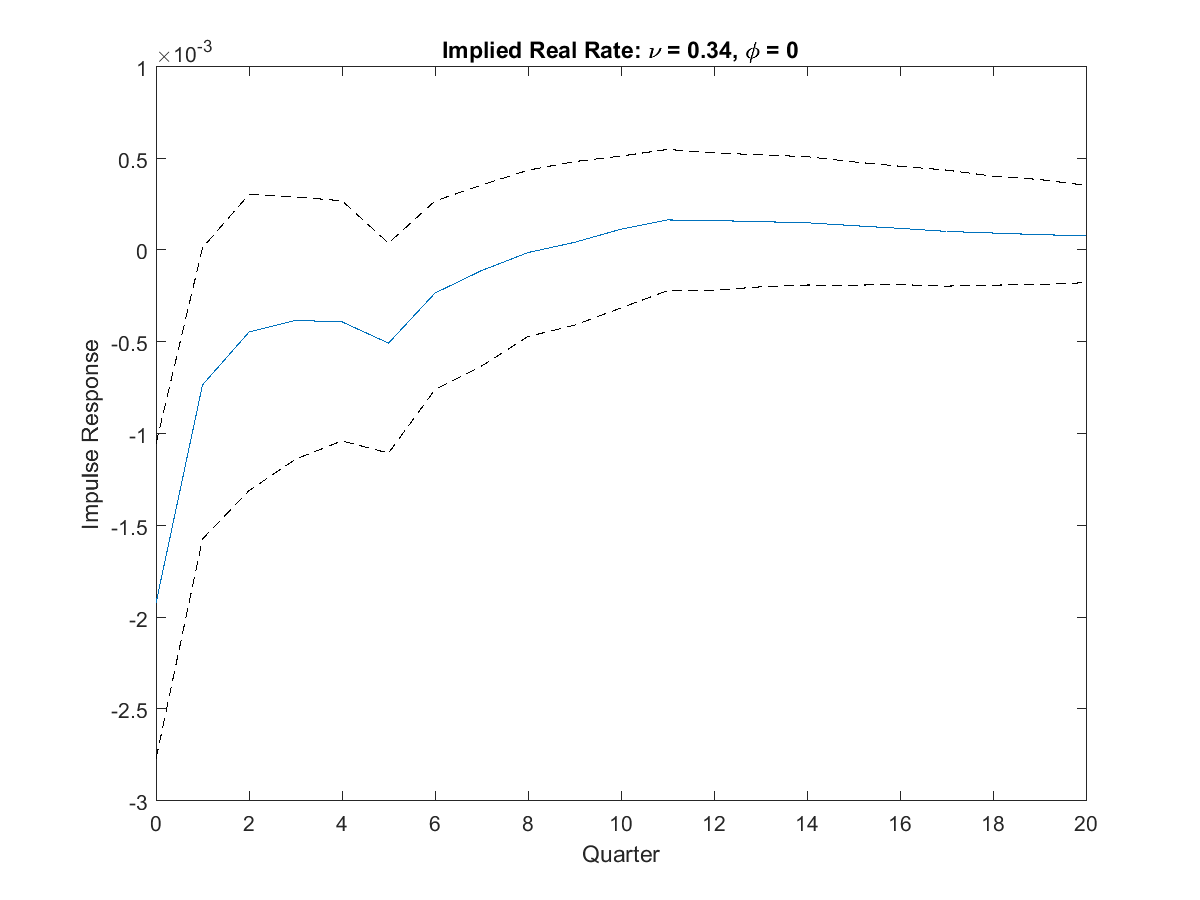
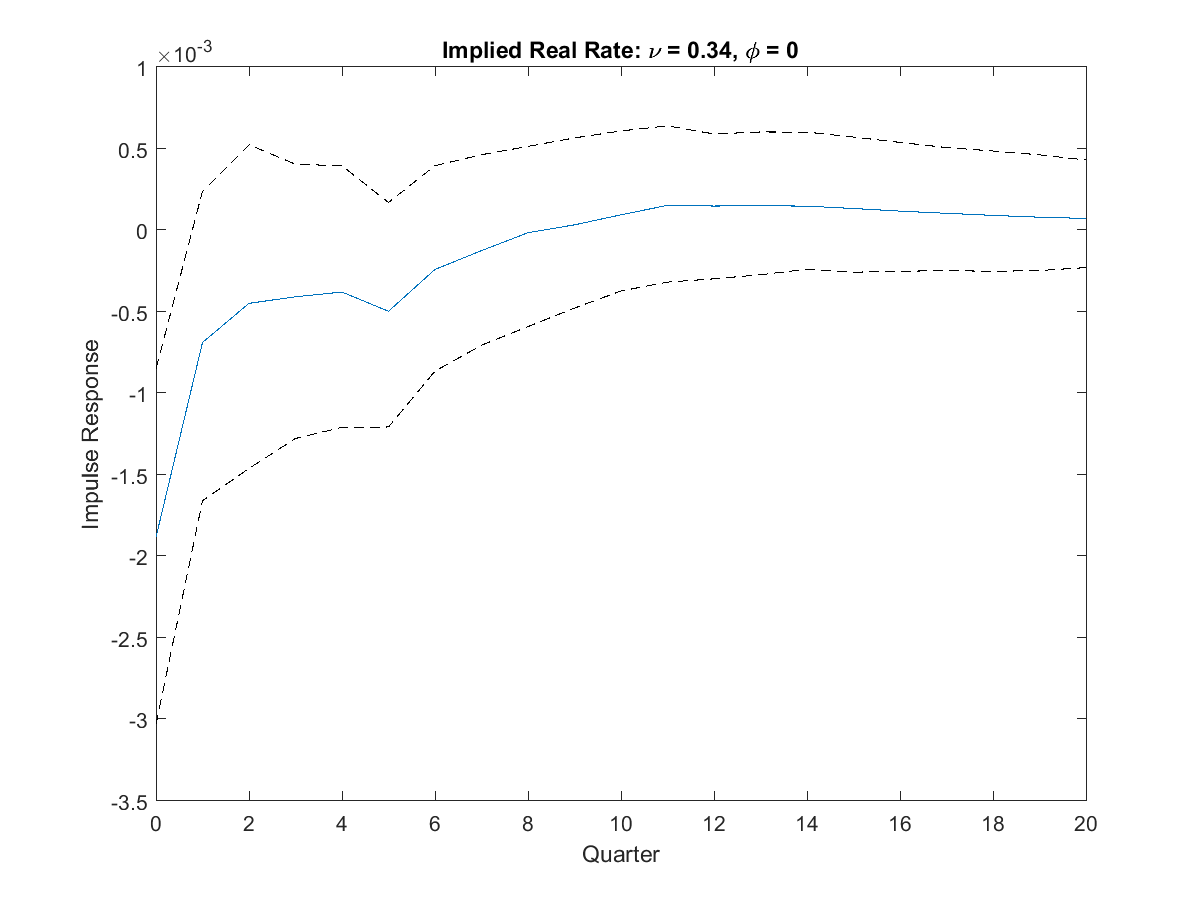
Change from 90% to 95% IRF confidence intervals

diff --git a/src/impulse_response.m b/src/impulse_response.m
@@ -23,9 +23,6 @@ for t = 2:21
     Y_t(:, t) = A0 + A1*Y_t(:, t-1);
 end
 
-% generate alternative timeline
-Y_t_shock = Y_t + dY_t;
-
 
 %% COMPUTE IMPULSE RESPONSE
 for i = 1:4
@@ -34,22 +31,22 @@ for i = 1:4
     
     if i == 1
         % nominal FFR
-        dffr_t_5 = dffr_t_CI(1, :);
-        dffr_t_50 = dffr_t_CI(2, :);
-        dffr_t_95 = dffr_t_CI(3, :);
+        dffr_t_lower = dffr_t_CI(1, :); % 2.5th percentile
+        dffr_t_50 = dffr_t_CI(2, :);    % 50th percentile
+        dffr_t_upper = dffr_t_CI(3, :); % 97.5th percentile
 
-        plot(period, dffr_t_50, period, dffr_t_5, '--k', period, dffr_t_95, '--k');
+        plot(period, dffr_t_50, period, dffr_t_lower, '--k', period, dffr_t_upper, '--k');
         title('Nominal FFR');
         xlabel('Quarter');
         ylabel('Impulse Response');
         print('figs/irf/nominal_ffr.png', '-dpng');
 
         % real FFR
-        dffr_real_t_5 = dffr_real_t_CI(1, :);
+        dffr_real_t_lower = dffr_real_t_CI(1, :);
         dffr_real_t_50 = dffr_real_t_CI(2, :);
-        dffr_real_t_95 = dffr_real_t_CI(3, :);
+        dffr_real_t_upper = dffr_real_t_CI(3, :);
 
-        plot(period, dffr_real_t_50, period, dffr_real_t_5, '--k', period, dffr_real_t_95, '--k');
+        plot(period, dffr_real_t_50, period, dffr_real_t_lower, '--k', period, dffr_real_t_upper, '--k');
         title('Real FFR');
         xlabel('Quarter');
         ylabel('Impulse Response');
@@ -57,22 +54,22 @@ for i = 1:4
     end
     
     % nominal implied rate
-    dlog_I_t_5 = dlog_I_t_CI(1, :);
+    dlog_I_t_lower = dlog_I_t_CI(1, :);
     dlog_I_t_50 = dlog_I_t_CI(2, :);
-    dlog_I_t_95 = dlog_I_t_CI(3, :);
+    dlog_I_t_upper = dlog_I_t_CI(3, :);
     
-    plot(period, dlog_I_t_50, period, dlog_I_t_5, '--k', period, dlog_I_t_95, '--k');
+    plot(period, dlog_I_t_50, period, dlog_I_t_lower, '--k', period, dlog_I_t_upper, '--k');
     title(['Implied Nominal Rate: \nu = ', num2str(nom(i).nu), ', \phi = ', num2str(nom(i).phi)]);
     xlabel('Quarter');
     ylabel('Impulse Response');
     print(['figs/irf/nominal_implied_', int2str(i), '.png'], '-dpng');
     
     % real implied rate
-    dlog_R_t_5 = dlog_R_t_CI(1, :);
+    dlog_R_t_lower = dlog_R_t_CI(1, :);
     dlog_R_t_50 = dlog_R_t_CI(2, :);
-    dlog_R_t_95 = dlog_R_t_CI(3, :);
+    dlog_R_t_upper = dlog_R_t_CI(3, :);
     
-    plot(period, dlog_R_t_50, period, dlog_R_t_5, '--k', period, dlog_R_t_95, '--k');
+    plot(period, dlog_R_t_50, period, dlog_R_t_lower, '--k', period, dlog_R_t_upper, '--k');
     title(['Implied Real Rate: \nu = ', num2str(real(i).nu), ', \phi = ', num2str(real(i).phi)]);
     xlabel('Quarter');
     ylabel('Impulse Response');

diff --git a/src/outside/kilian/boot.m b/src/outside/kilian/boot.m
@@ -75,8 +75,8 @@ end;
 CI=prctile(IRFrmat,[5 95]);
 
 % PZL 2/2/16
-dffr_t_CI = prctile(dffr_ts, [5 50 95]);
-dffr_real_t_CI = prctile(dffr_real_ts, [5 50 95]);
-dlog_I_t_CI = prctile(dlog_I_ts, [5 50 95]);
-dlog_R_t_CI = prctile(dlog_R_ts, [5 50 95]);
+dffr_t_CI = prctile(dffr_ts, [2.5 50 97.5]);
+dffr_real_t_CI = prctile(dffr_real_ts, [2.5 50 97.5]);
+dlog_I_t_CI = prctile(dlog_I_ts, [2.5 50 97.5]);
+dlog_R_t_CI = prctile(dlog_R_ts, [2.5 50 97.5]);
 
